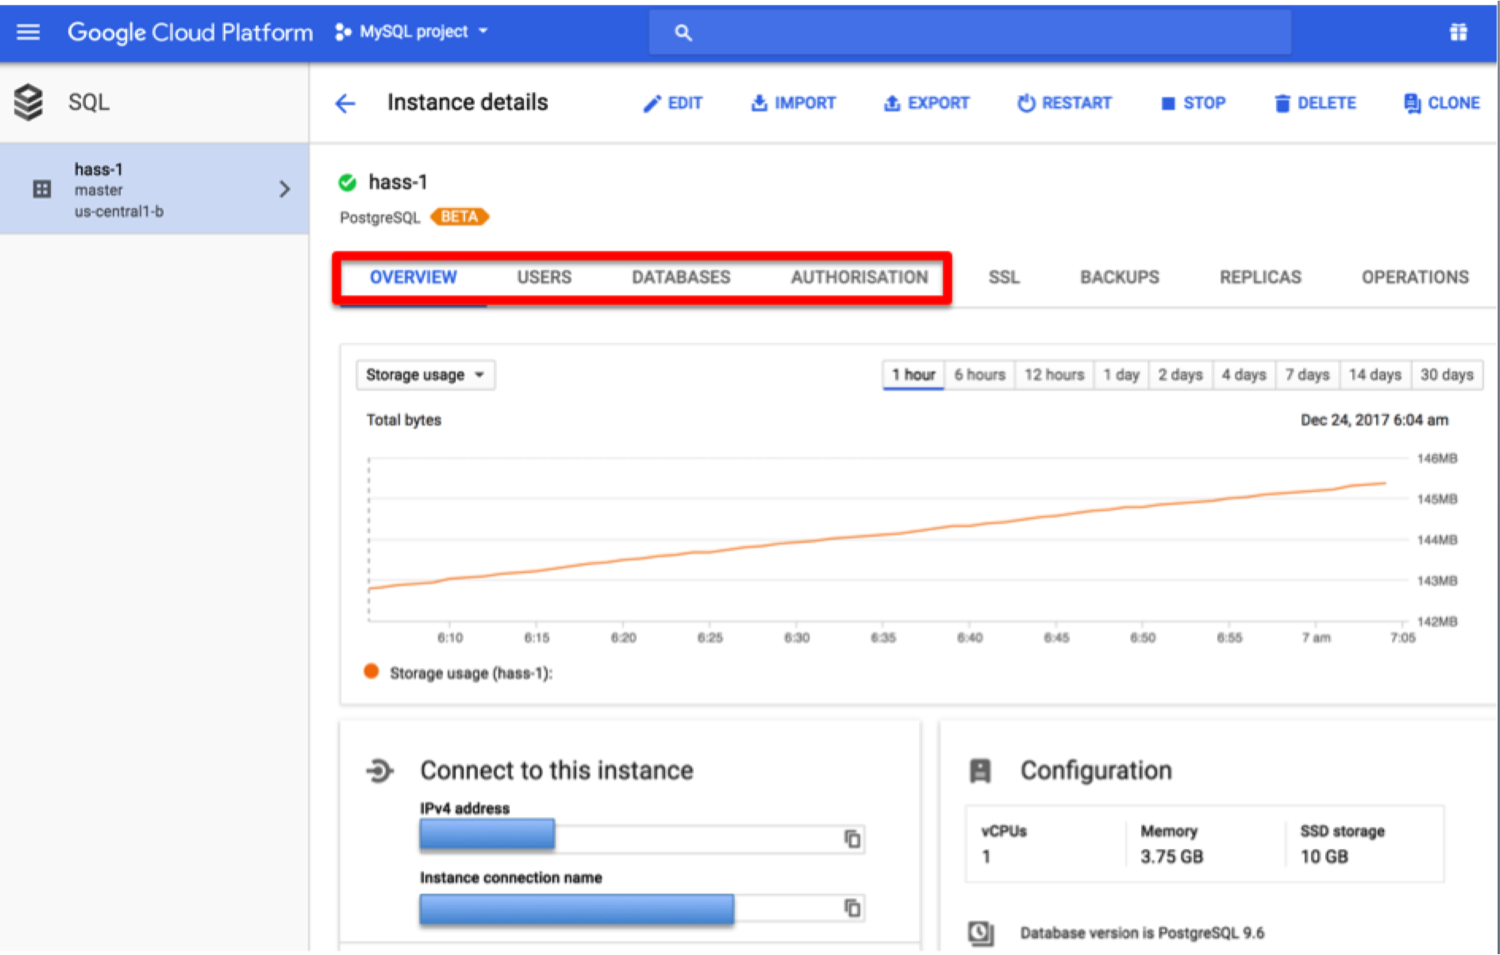
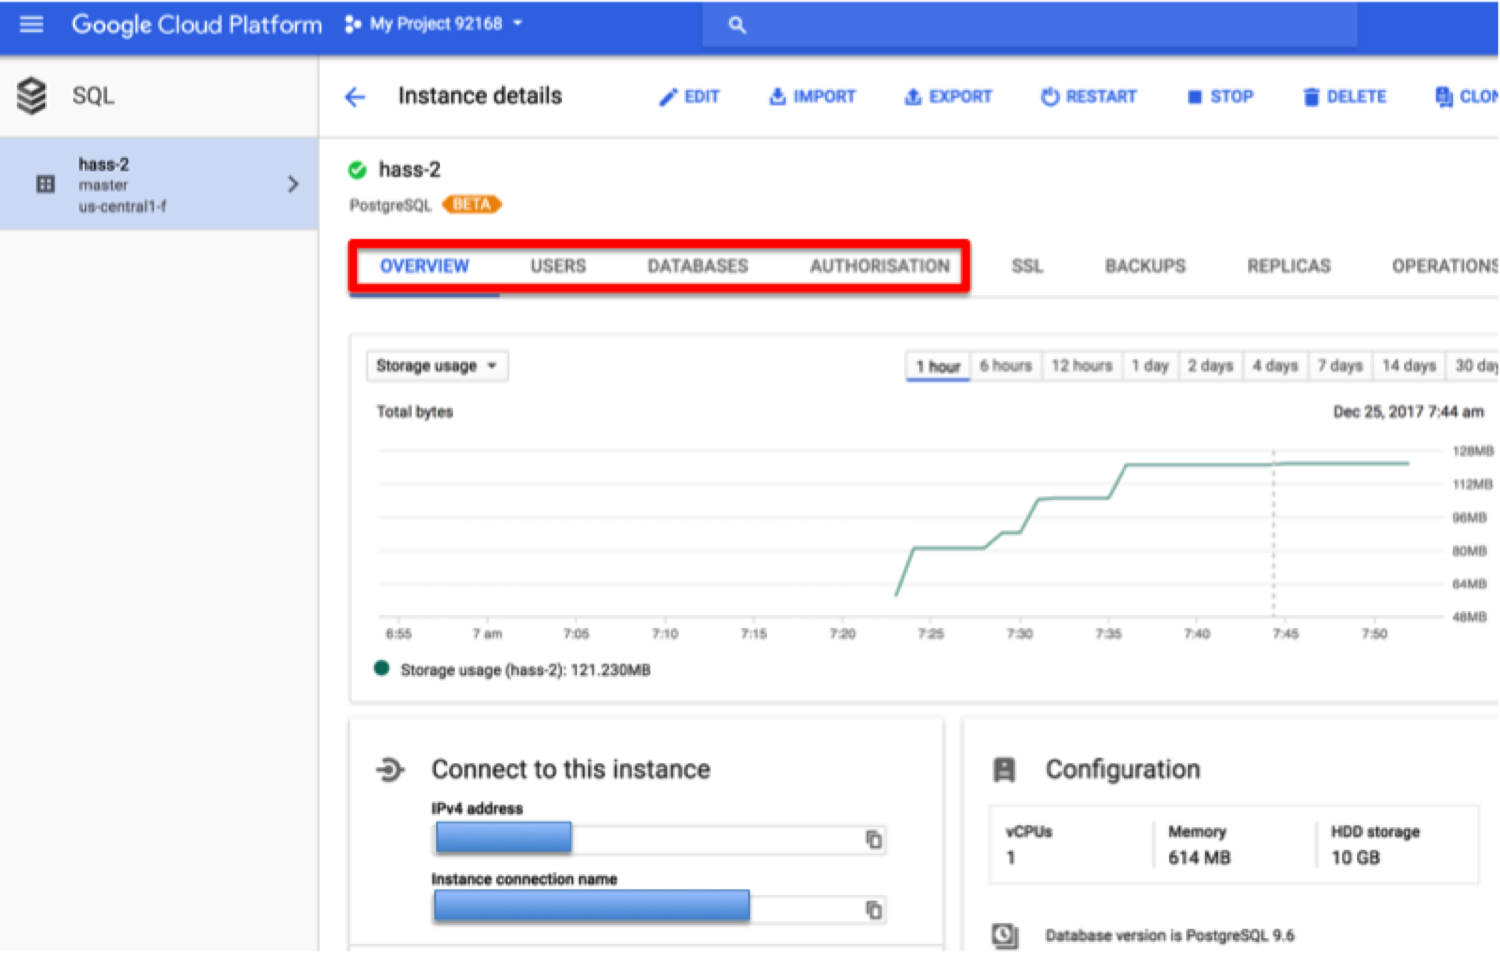
Updates readme

diff --git a/README.md b/README.md
@@ -11,7 +11,11 @@ A solution to this final problem of access to the .db is to setup a database ser
 Google provide an [interesting variety](https://cloud.google.com/products/) of cloud software solutions/products. Their [Cloud SQL](https://cloud.google.com/sql/) product appeared to meet my requirements, and is [reasonably priced](https://cloud.google.com/sql/pricing) (particularly compared to purchasing your own NAS!). Once configured, a Cloud SQL database can be accessed without fuss, and in my limited experience appears to offer faster query/response times than my own local solution.
 
 ### Configuring Cloud SQL ###
-Both MySQL and PostgreSQL are offered, and I chose PostgreSQL since I found a [useful guide](https://github.com/naranjja/gcp-jupyter-sql) on Github (Googles own docs being horrendously confusing). Follow the [getting started](https://cloud.google.com/sql/docs/postgres/quickstart) exercise, which involves creating an instance on the cloud, and using the web terminal to create a database. Next, navigate to the [SQL instances console](https://console.cloud.google.com/projectselector/sql/instances), and select/create a project. From within the project select an SQL instance to administer/configure. I created a PostgreSQL instance with identification 'hass-1'. The console for this instance is shown below.
+Both MySQL and PostgreSQL are offered, and I chose PostgreSQL since I found a [useful guide](https://github.com/naranjja/gcp-jupyter-sql) on Github (Googles own docs being horrendously confusing). Follow the [getting started](https://cloud.google.com/sql/docs/postgres/quickstart) exercise, which involves creating an instance on the cloud, and using the web terminal to create a database. Once you've been through that tutorial, navigate to the [SQL instances console](https://console.cloud.google.com/projectselector/sql/instances) and create a new instance. I created an instance with identification 'hass-2' and the following instance configuration which should be [free/lowest cost](http://diyfuturism.com/index.php/2017/12/11/self-hosting-how-to-get-free-and-cheap-linux-virtual-servers/):
+
+<img src="https://github.com/robmarkcole/HASS-Google-Cloud-SQL/blob/master/images/instance-config.png">
+
+The console for this instance is shown below.
 
 <img src="https://github.com/robmarkcole/HASS-Google-Cloud-SQL/blob/master/images/cloud_config.png">
 
